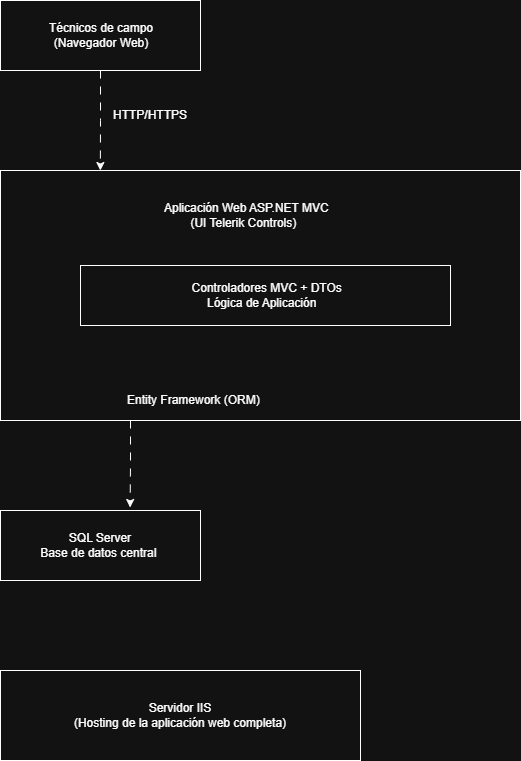
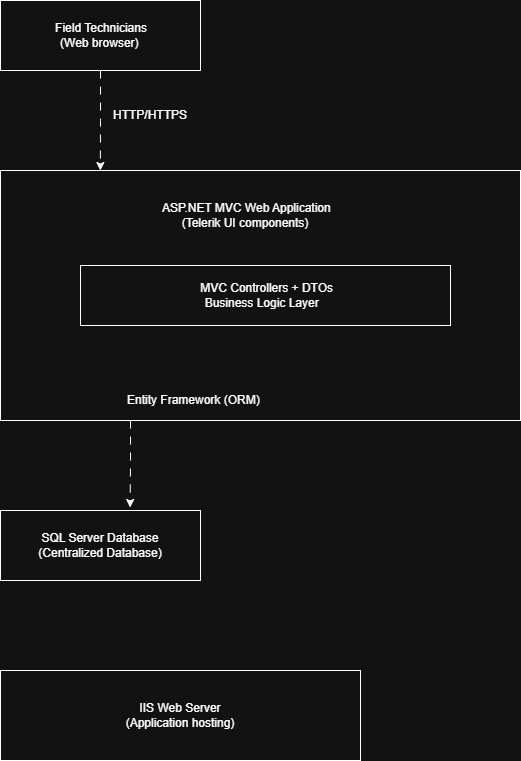
Add English version of critical system stabilization case

diff --git a/content/en/cases/stabilizing-a-critical-system/index.md b/content/en/cases/stabilizing-a-critical-system/index.md
@@ -1,110 +1,110 @@
 ---
-title: "Estabilizar un sistema crítico sin reescrituras (ASP.NET y SQL Server)"
-description: "Caso real de estabilización de una aplicación web industrial en producción, reduciendo caídas y riesgo sin reescrituras."
+title: "Stabilizing a Critical System Without a Rewrite (ASP.NET & SQL Server)"
+description: "Real-world case study on stabilizing a production industrial web application, reducing outages and delivery risk without a full rewrite."
 date: 2026-01-15
-tags: ["arquitectura de software", "sistemas críticos", "legacy", "entornos industriales"]
+tags: ["software architecture", "critical systems", "legacy", "industrial environments"]
 ---
 
-## Contexto
+## Context
 
-Aplicación web industrial en producción, utilizada por técnicos de campo para registrar inspecciones reglamentarias en instalaciones sujetas a normativa.
+A production industrial web application used by field technicians to register regulated inspections in compliance-driven environments.
 
-El sistema era la pieza central del proceso operativo:
-- registro completo de inspecciones
-- trazabilidad de cada instalación y equipo
-- emisión de certificaciones oficiales cuando se cumplía la regulación
+The system was a central part of the operational process:
+- full inspection recording
+- traceability of installations and equipment
+- issuance of official certifications when regulatory requirements were met
 
-La disponibilidad y fiabilidad del sistema eran críticas para la operación diaria y el negocio.
-
----
-
-## Situación inicial
-
-Cuando me incorporé, el sistema se encontraba en un estado muy delicado:
-
-- Caídas frecuentes y aleatorias en producción
-- Reinicios constantes que dejaban el sistema fuera de servicio
-- Técnicos obligados a registrar inspecciones en papel
-- Malestar generalizado entre usuarios finales
-- Impacto económico directo en cada parada
-- Despliegues frágiles, con alto riesgo de romper funcionalidades existentes
-- Ausencia de documentación técnica y de procesos claros
-- Dependencia crítica de conocimiento externo ya no disponible internamente
-
-Cualquier cambio, por pequeño que fuera, generaba efectos colaterales inesperados.
-
-### Arquitectura inicial
-
-![Arquitectura inicial del sistema y dependencias críticas](arquitectura-inicial.png)
+Availability and reliability were critical for both daily operations and the business.
 
 ---
 
-## Mi rol
+## Initial Situation
 
-Asumí el rol de responsable técnico principal del sistema:
+When I joined the project, the system was in a fragile and unstable state:
 
-- Toma de decisiones técnicas críticas
-- Responsabilidad sobre estabilidad, despliegues y continuidad del servicio
-- Referente técnico en un entorno de alta presión de negocio
+- Frequent and seemingly random production outages
+- Recurrent application restarts causing service downtime
+- Field technicians forced to fall back to paper-based inspections
+- Widespread user frustration
+- Direct financial impact during each outage
+- Fragile deployments with a high risk of breaking existing functionality
+- Lack of technical documentation and clearly defined processes
+- Critical dependency on external knowledge no longer available internally
 
----
+Even small changes caused unexpected side effects.
 
-## Enfoque inicial (antes de tocar código)
+### Initial Architecture
 
-Antes de introducir cambios, el foco fue entender y ordenar:
-
-- Análisis profundo del estado real del sistema
-- Identificación de dependencias críticas y flujos principales
-- Documentación de arquitectura, procesos y despliegues inexistentes o difusos
-- Priorización estricta orientada a negocio
-
-La decisión fue clara:  
-**la estabilidad era prioritaria frente a cualquier nueva funcionalidad.**
+![Initial system architecture and critical dependencies](initial-architecture.png)
 
 ---
 
-## Decisiones clave
+## My Role
 
-Se tomó una decisión consciente y sostenida en el tiempo:
+I assumed the role of primary technical owner of the system:
 
-- No añadir nuevas funcionalidades hasta estabilizar el sistema
-
-Aunque existía presión para seguir desarrollando features, se priorizó:
-- reducir incidentes
-- recuperar la confianza en el sistema
-- evitar seguir construyendo sobre una base inestable
+- Making critical technical decisions
+- Taking responsibility for stability, deployments, and service continuity
+- Acting as the technical reference in a high-pressure business environment
 
 ---
 
-## Acciones técnicas
+## Initial Approach (Before Touching the Code)
 
-- Definición y documentación de un proceso de despliegue claro y reproducible
-- Implantación de planes de despliegue más seguros
-- Revisiones de código orientadas a evitar regresiones
-- Mejora de los flujos de entrega para eliminar fallos recurrentes
-- Reducción progresiva de la dependencia externa mediante extracción de conocimiento y comunicación controlada
-- Análisis y optimización de la capa de datos, identificando consultas críticas y ajustando esquema e índices para reducir bloqueos y comportamientos inestables en producción.
+Before introducing any changes, the priority was to understand and bring order to the system:
 
----
+- In-depth analysis of the system’s real state
+- Identification of critical dependencies and main operational flows
+- Documentation of architecture, processes, and deployment practices that were missing or unclear
+- Strict prioritization driven by business impact
 
-## Resultado
-
-- Eliminación de las caídas constantes en producción
-- Despliegues estables y predecibles
-- Recuperación de la operativa normal de los técnicos de campo
-- Reducción del riesgo en cambios y entregas
-- Recuperación de la confianza del negocio en el sistema
-
-Se estableció una base técnica sólida que permitió, posteriormente, volver a evolucionar el producto con menor riesgo.
+One decision guided all actions:  
+**stability had priority over any new functionality.**
 
 ---
 
-## Aprendizajes
+## Key Decisions
 
-- La estabilidad no es una mejora: es un prerrequisito
-- Muchas veces, la mejor decisión técnica es **no hacer más**, sino hacer menos y mejor
-- Estabilizar un sistema es tan valioso como construir uno nuevo
-- La arquitectura madura prioriza continuidad, no brillantez
+A conscious and sustained decision was made:
 
-Este tipo de trabajo rara vez es visible, pero suele marcar la diferencia
-entre un sistema que sobrevive y uno en el que el negocio puede confiar.
+- No new features until the system was stable
+
+Despite pressure to continue delivering new functionality, the focus remained on:
+- reducing incidents
+- restoring trust in the system
+- avoiding further complexity on an unstable foundation
+
+---
+
+## Technical Actions
+
+- Definition and documentation of a clear, reproducible deployment process
+- Introduction of safer deployment strategies
+- Code reviews focused on preventing regressions
+- Improvements to delivery flows to eliminate recurring failures
+- Gradual reduction of external dependency through knowledge extraction and controlled communication
+- Analysis and optimization of the data layer, identifying critical queries and adjusting schema and indexes to reduce blocking and unstable behavior in production
+
+---
+
+## Outcome
+
+- Elimination of recurring production outages
+- Stable and predictable deployments
+- Restoration of normal operations for field technicians
+- Reduced risk when introducing changes
+- Recovered business confidence in the system
+
+A solid technical foundation was established, enabling the product to evolve again with significantly lower risk.
+
+---
+
+## Key Learnings
+
+- Stability is not an improvement — it is a prerequisite
+- Often, the best technical decision is **not to do more**, but to do less and do it better
+- Stabilizing a system can be as valuable as building a new one
+- Mature architecture prioritizes continuity over cleverness
+
+This type of work is rarely visible, but it often makes the difference  
+between a system that merely survives and one the business can truly rely on.
